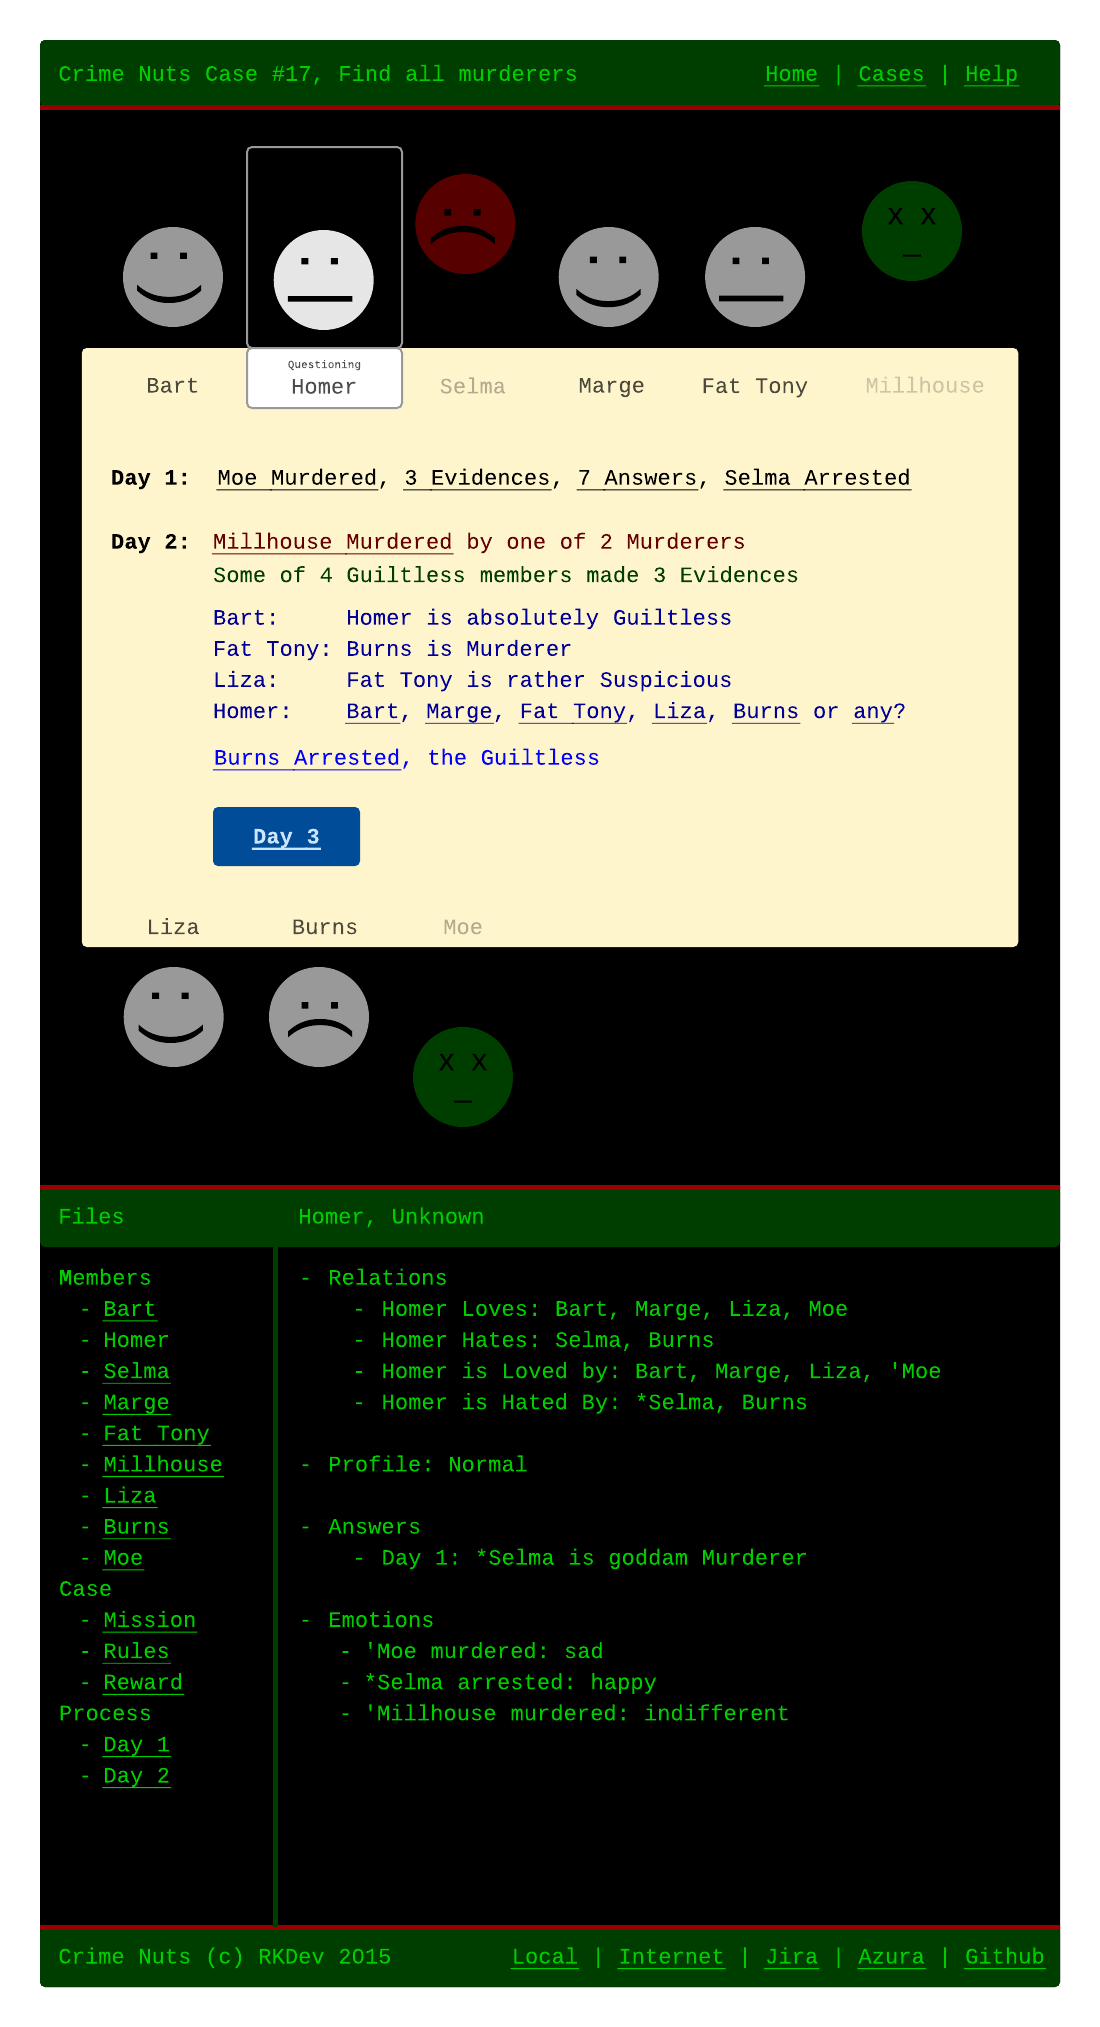
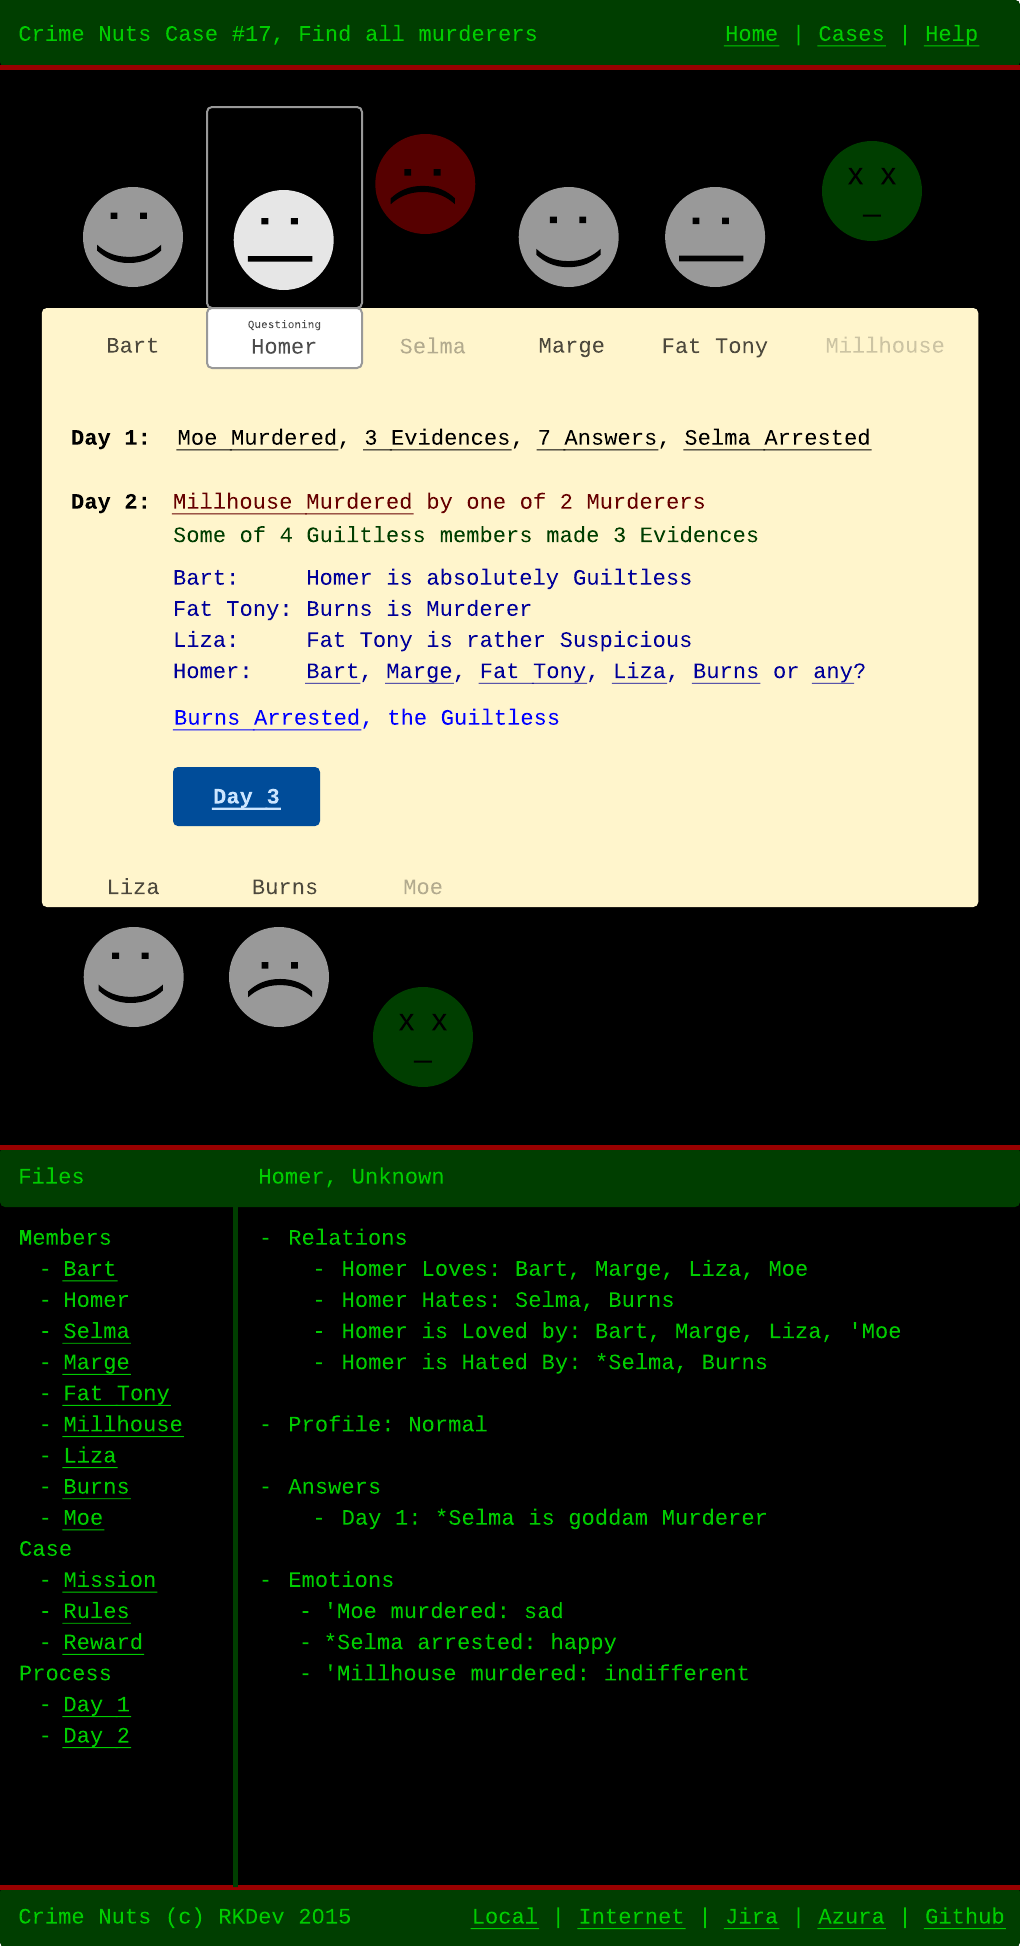
DET-56 Headr - Fotters - Content + CSS

diff --git a/Projects/Papagames.Detective.App.Web/Content/Themes/Classic/Site.css b/Projects/Papagames.Detective.App.Web/Content/Themes/Classic/Site.css
@@ -1,62 +1,81 @@
 /*
 >> Classic/CSS
 */
-
-body {
-    font-size: 1.0em;
-
-    font-family: 'Cousine';
-/*    
-    font-family: 'Roboto Slab', serif;
-    font-family: 'Cousine';
-    font-family: 'Roboto', sans-serif; 
-
-
+/*
+// ============================================================================================= []
+// Common styles
 */
+html, body, p, div, h1, h2, h3, h4, h5, h6, img, pre, form, fieldset {
+    margin: 0;
+    padding: 0;
+    padding-left: 0;
+    padding-right: 0;
+    vertical-align: middle;
 
-    color: #4cff00;
+    font-size: 1.02em;
+    font-family: 'Cousine';
+
+    color: #00cc00;
     background-color: #000000;
 }
 
-header, footer, nav, section { display: block; }
-
-
-/* Styles for basic forms
------------------------------------------------------------*/
-
-fieldset {
-    border: 1px solid #ddd;
-    padding: 0 1.4em 1.4em 1.4em;
-    margin: 0 0 1.5em 0;
+html, body {
+    min-width: 800px;
+    height: 100%;
 }
 
-legend {
-    font-size: 1.2em;
-    font-weight: bold;
+.det-page {
+    display: table;
+    width: 100%;
+    height: 100%;
 }
 
-textarea { min-height: 75px; }
-
-.editor-label { margin: 1em 0 0 0; }
-
-.editor-field { margin: 0.5em 0 0 0; }
-
-
-/* Styles for validation helpers
------------------------------------------------------------*/
-
-.field-validation-error { color: #f00; }
-
-.field-validation-valid { display: none; }
-
-.input-validation-error {
-    border: 1px solid #f00;
-    background-color: #fee;
+.det-page-footer, .det-page-header {
+    display: table-row;
+    height: 1px;
+    overflow: hidden;
 }
 
-.validation-summary-errors {
-    font-weight: bold;
-    color: #f00;
+.det-page-content { height: auto; }
+
+.det-green-pad {
+    width: 100%;
+    height: 25px;
+    background: #003e00;
+
+    padding-top: 15px;
+    padding-bottom: 8px;
 }
 
-.validation-summary-valid { display: none; }
+.det-red-line {
+    width: 100%;
+    height: 4px;
+    background: #990000;
+}
+
+.det-green-pad-inner {
+    border-spacing: 0;
+    -moz-box-sizing: border-box;
+    -webkit-box-sizing: border-box;
+    box-sizing: border-box;
+    display: table;
+    table-layout: auto;
+    background-color: inherit;
+    width: 100%;
+}
+
+.det-green-pad-inner-left, .det-green-pad-inner-right {
+    -moz-box-sizing: border-box;
+    -webkit-box-sizing: border-box;
+    box-sizing: border-box;
+    display: table-cell;
+    margin: 0;
+    padding: 0;
+    text-align: left;
+    vertical-align: top;
+    background-color: inherit;
+    padding-left: 1em;
+    padding-right: 1em;
+}
+
+.det-green-pad-inner-right { text-align: right; }
